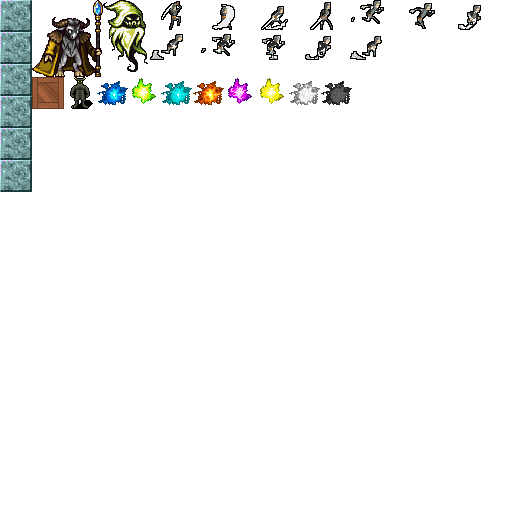
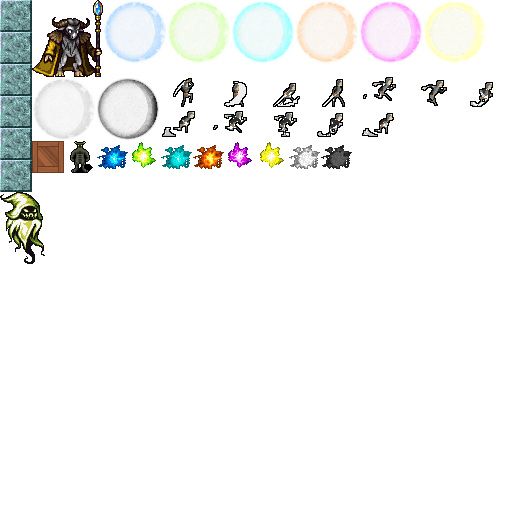
Add a weird shield. That'll do

diff --git a/game.py b/game.py
@@ -142,6 +142,9 @@ class Sprite:
     gravity = -0.007
     jump_velocity = 2
     duck_duration = 200
+    shield_duration = 500
+    shield_size = Point(128, 128)
+    shield_offset = Point(0, 32)
 
     def __init__(self, parent, bl, tr, tc_names, atlas):
         self.bl = bl
@@ -165,10 +168,23 @@ class Sprite:
             bolt.disable()
         self.smashing = False
 
+        self.shield_tc = [atlas.texture_coords(f"resource/sprites/shield_{n}.png") for n in range(1, 8)]
+
+        self.shield_quad = drawing.Quad(globals.quad_buffer)
+        self.shield_quad.disable()
+        self.shield = False
+
         self.active_bolts = []
 
     def get_centre(self):
         return self.bl + self.pos + (self.size / 2)
+
+    def enable_shield(self, num):
+        self.shield_quad.set_texture_coordinates(self.shield_tc[num % len(self.shield_tc)])
+        self.shield = globals.music_pos + self.shield_duration
+        pos = self.start_pos + self.pos - self.shield_offset
+        self.shield_quad.set_vertices(pos, pos + self.shield_size, 51)
+        self.shield_quad.enable()
 
     def update(self, music_pos):
         new_bolts = []
@@ -179,6 +195,10 @@ class Sprite:
             else:
                 new_bolts.append(bolt)
         self.active_bolts = new_bolts
+
+        if self.shield and music_pos > self.shield:
+            self.shield = False
+            self.shield_quad.disable()
 
         animated = False
 
@@ -198,6 +218,8 @@ class Sprite:
                 self.jumping = False
             pos = self.start_pos + self.pos
             self.quad.set_vertices(pos, pos + self.size, 50)
+            if self.shield:
+                self.shield_quad.set_vertices(pos, pos + self.shield_size - self.shield_offset, 51)
 
             animated = True
 
@@ -1017,7 +1039,6 @@ class HealthBar(ui.UIElement):
         self.set_health()
 
     def add(self, amount):
-        return
         if amount < 0:
             drawing.shake_screen(20, 500)
         self.health += amount
@@ -1168,6 +1189,7 @@ class GameView(ui.UIRoot):
             elif block.key in range(ord("0"), ord("9")):
                 if block.bolt:
                     block.bolt.done = True
+                self.player.enable_shield(block.key - ord("0"))
             elif block.key == ord(" "):
                 self.player.smash(block.wall)
 
